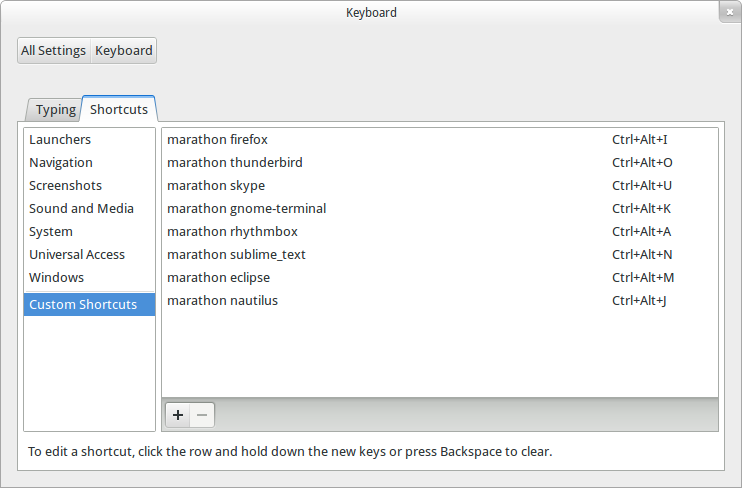
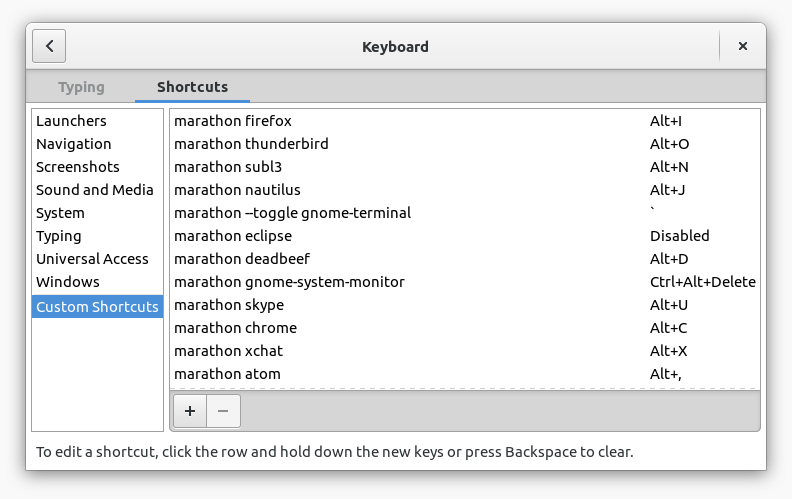
Add support for a '--toggle' quake-like flag

Changed region(s): [[0.0, 0.0, 1.0, 1.0], [0.0, 0.0, 0.031, 0.0307]]

diff --git a/README.md b/README.md
@@ -1,12 +1,14 @@
 marathon
 ========
 
-**marathon** is a minimal bash based launcher for Linux that tries to be smart about running or focusing apps. Just call `marathon SomeApplication`, and:
+**marathon** is a minimal shell-based launcher for Linux that tries to be smart about running or focusing apps. When calling `marathon foo`,
 
-* if *SomeApplication* is not running, marathon will **run** it
-* else marathon will just **focus** it
+* If `foo` is not running, marathon will **run** it.
+* Else marathon will just **focus** `foo`
 
-That way, after binding your favorite apps to a few easily-accessible keyboard shortcuts, you can access them with a single keypress and forget about alt-tabbing or clicking on stuff in your dock / selector.
+That way, after binding your favorite apps to a few easily-accessible keyboard shortcuts, you can access them with a single keypress and **forget about alt-tabbing or clicking on stuff in your dock / selector**.
+
+By default, marathon will have no effect on already-focused windows, but a `--toggle` flag is supported to emulate the Quake-like behavior of instead *minimizing* the focused window.
 
 Installation
 ------------
@@ -14,24 +16,16 @@ Installation
 - **Mac OSX is not supported, sorry**. But rejoice, you'll be well served with Automator or Alfred, see [this guide](http://superuser.com/questions/245711/starting-application-with-custom-keyboard-shortcut) for example.  
 
 - **Linux**:
-    1. Install `wmctrl` from your package manager.
-    2. Drop the script somewhere (e.g. `~/.scripts/marathon`) and link it to somewhere in your `$PATH`, e.g. `sudo ln -s ~/.scripts/marathon /usr/local/sbin/marathon`
+    1. **Install `wmctrl` and `xdotool`** from your package manager.
+    2. Drop `marathon` somewhere in your `$PATH`.
     3. Bind `marathon command` to some keyboard shortcut:
-        * GNOME → System Settings → *Keyboard* section → *Shortcut* tab → *Custom Shortcuts*. Mine look like:  
+        * GNOME → Settings → *Keyboard* section → *Shortcut* tab → *Custom Shortcuts*. Mine look like:  
         ![GNOME Keyboard Settings screenshot](gnome-keyboard-settings-screenshot.png)
         * LXDE → your `lxde-rc.xml`
 
-Todo
-----
+Support, license, contact
+-------------------------
 
-[Bug Reports](https://github.com/ronjouch/marathon/issues) and [Pull Requests](https://github.com/ronjouch/marathon/pulls) are welcome via GitHub. Help very much needed especially in these areas:
+[Bug Reports](https://github.com/ronjouch/marathon/issues) and [Pull Requests](https://github.com/ronjouch/marathon/pulls) are welcome via GitHub.
 
-* Test and fix for other *nixes (currently only tested under Ubuntu).
-* Proper handling of WM_CLASSES, currently it just assumes the class will contain the executable name. Works for all my apps though.
-* (Maybe) use xdotool, it looks simpler.
-* (Maybe) if app runs and focused, then minimize it.
-
-License and contact
--------------------
-
-Licensed under the BSD license, 2012-2013, [ronan@jouchet.fr](mailto:ronan@jouchet.fr) / [@ronjouch](https://twitter.com/ronjouch)
+Licensed under the MIT license, 2012-2015, [ronan@jouchet.fr](mailto:ronan@jouchet.fr) / [@ronjouch](https://twitter.com/ronjouch)
